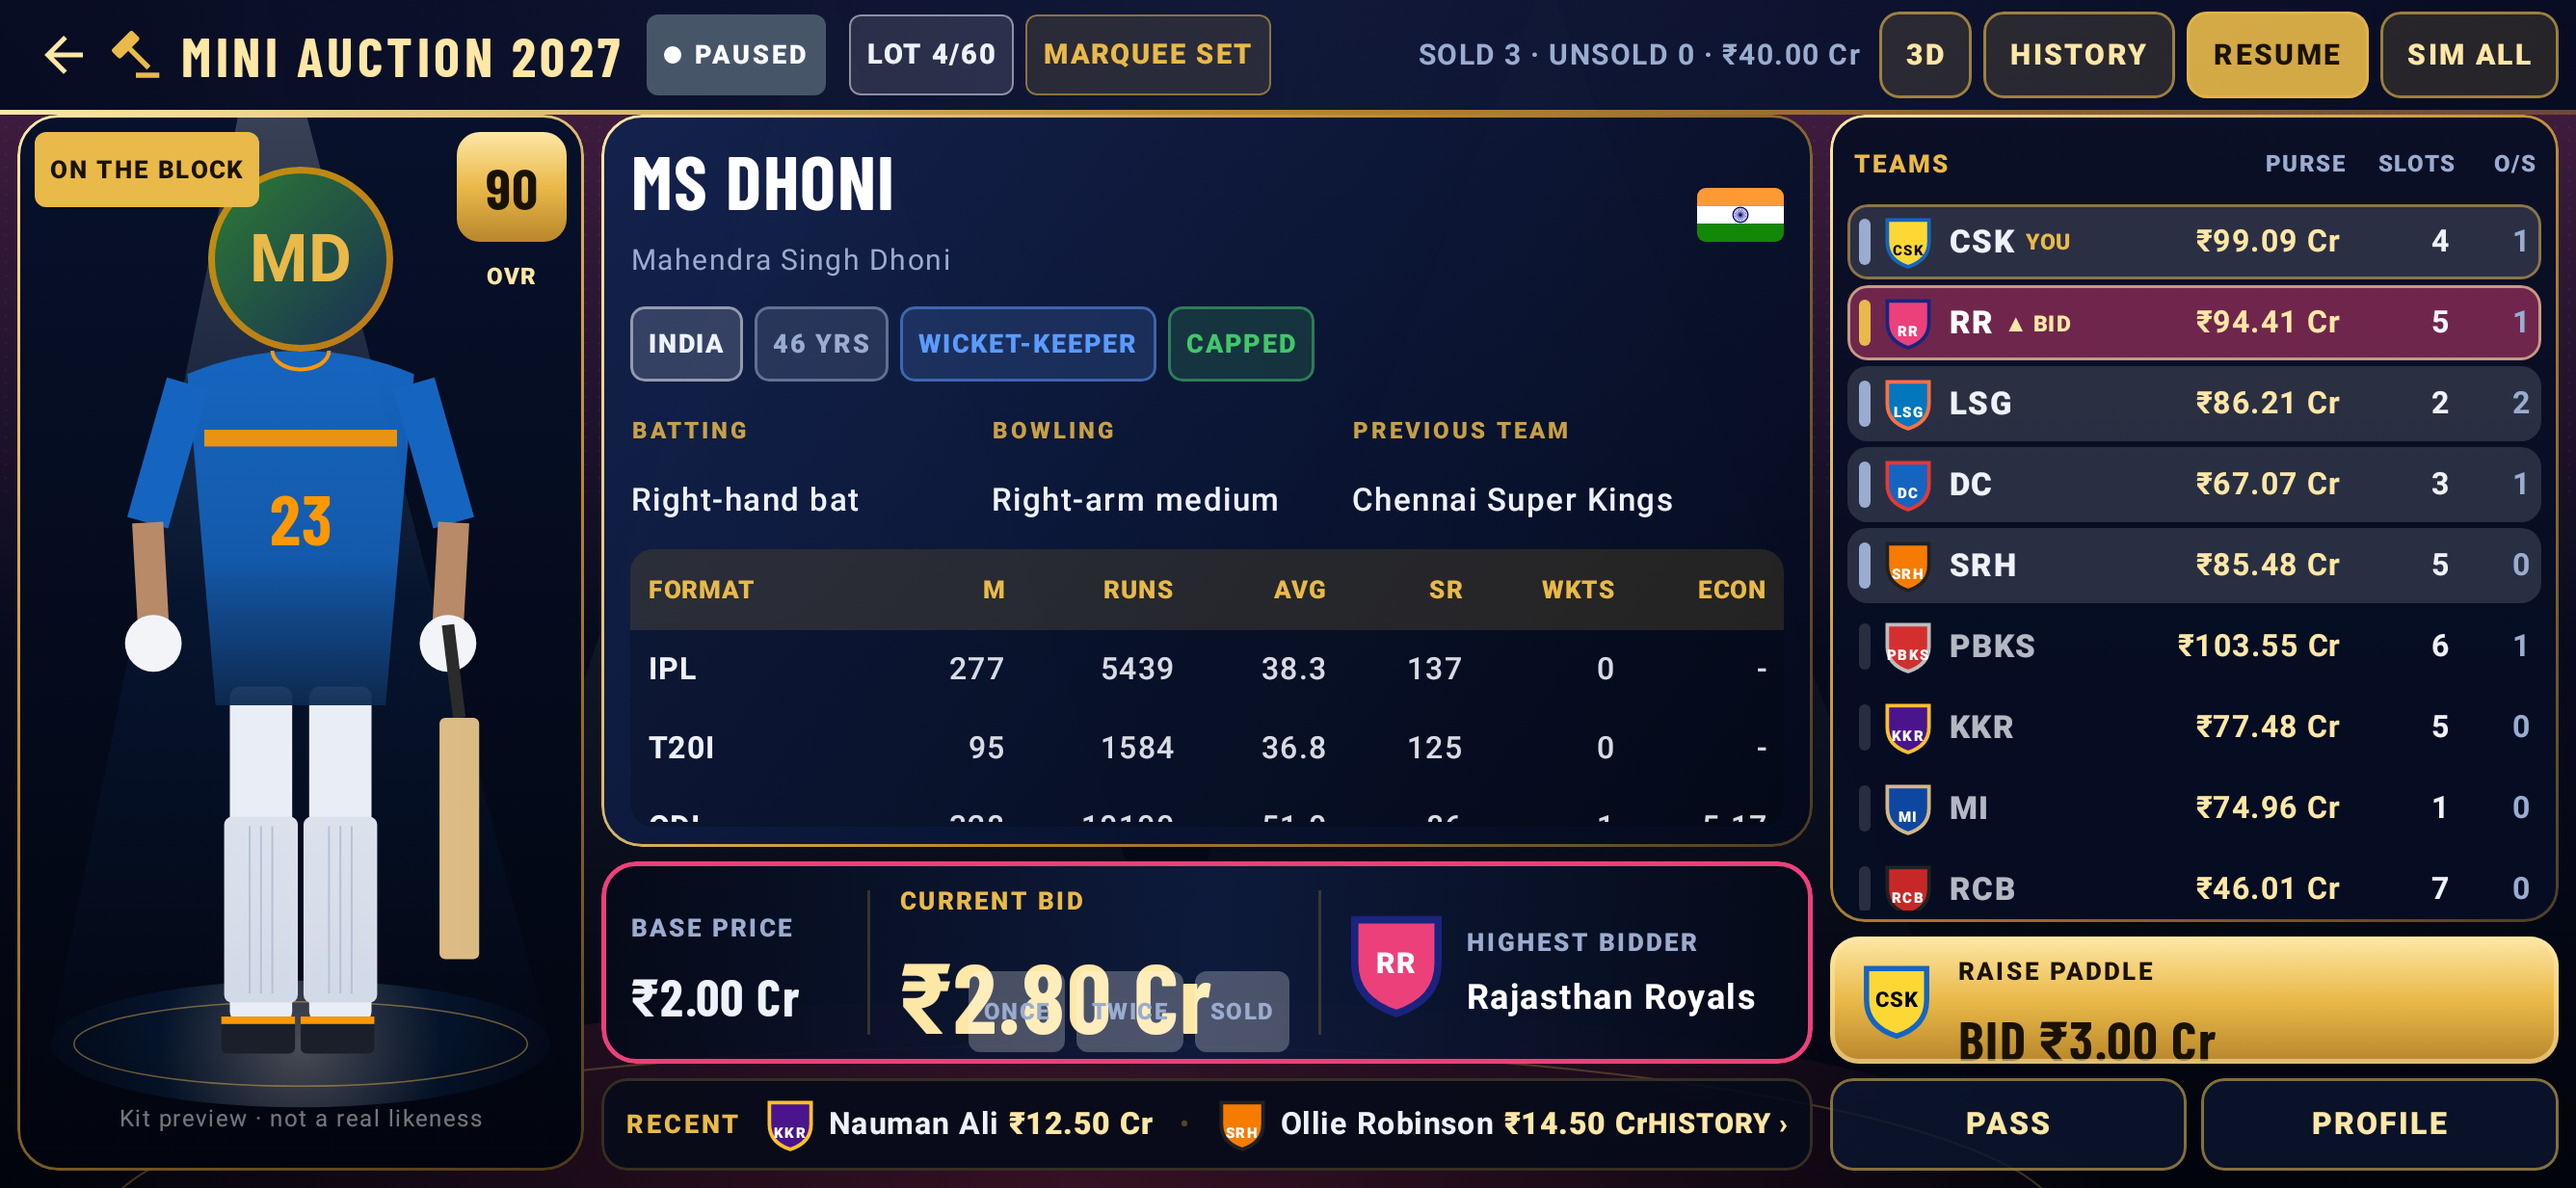
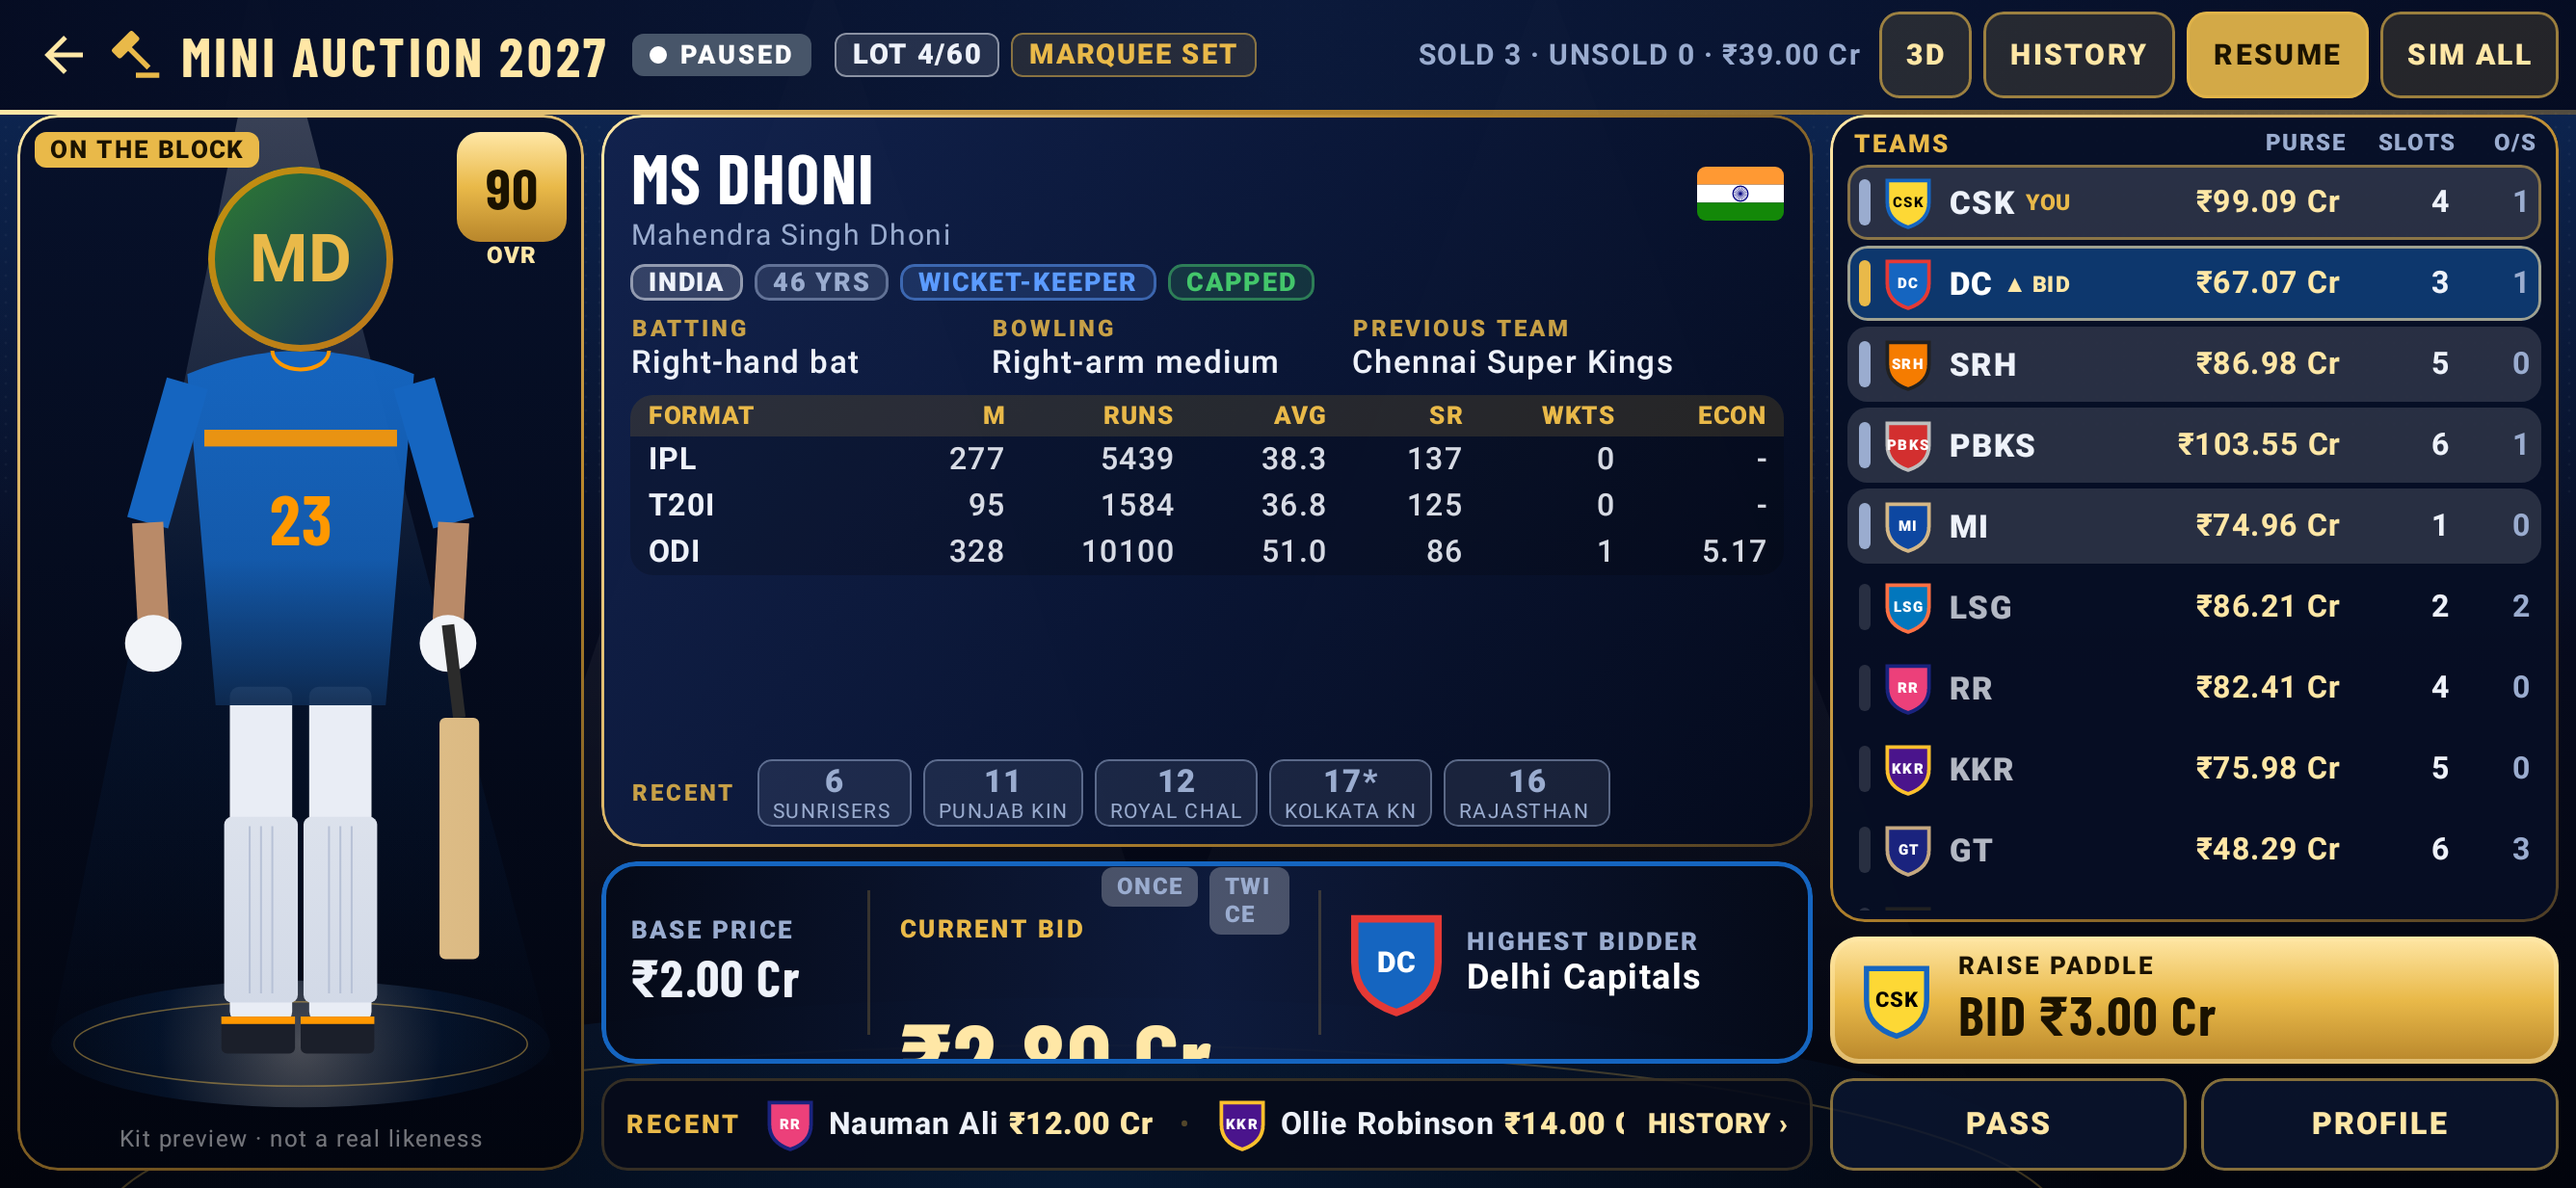
Auction price rail: going pips under the highest bidder, 4 stat rows

diff --git a/app/src/main/java/com/cricketcoach/manager/ui/screens/AuctionBroadcast.kt b/app/src/main/java/com/cricketcoach/manager/ui/screens/AuctionBroadcast.kt
@@ -377,7 +377,7 @@ private fun CareerStatsTable(p: GPlayer, rp: RealPlayer?, modifier: Modifier) {
             head.forEachIndexed { i, h -> Text(h, color = C.Gold, fontSize = 8.5.sp, fontWeight = FontWeight.Black, letterSpacing = 0.6.sp, modifier = Modifier.weight(weights[i]), textAlign = if (i == 0) TextAlign.Start else TextAlign.End) }
         }
         if (rows.isEmpty()) Text("No senior career record — scouted on skills", color = C.Sub, fontSize = 10.sp, modifier = Modifier.padding(6.dp))
-        rows.take(3).forEach { r ->
+        rows.take(4).forEach { r ->
             Row(Modifier.fillMaxWidth().padding(horizontal = 6.dp, vertical = 1.5.dp)) {
                 r.forEachIndexed { i, v -> Text(v, color = if (i == 0) C.Text else C.Text.copy(alpha = 0.9f), fontSize = 10.5.sp, fontWeight = if (i == 0) FontWeight.Bold else FontWeight.Medium,
                     modifier = Modifier.weight(weights[i]), textAlign = if (i == 0) TextAlign.Start else TextAlign.End, maxLines = 1) }
@@ -441,11 +441,7 @@ private fun PriceRail(s: CareerSave, a: AuctionState, p: GPlayer?, leader: Club?
         // current bid
         Box(Modifier.weight(1f).fillMaxHeight().padding(horizontal = 10.dp), contentAlignment = Alignment.CenterStart) {
             Column {
-                Row(verticalAlignment = Alignment.CenterVertically) {
-                    Text(if (a.curBidder.isEmpty()) "OPENING BID" else "CURRENT BID", color = C.Gold, fontSize = 8.5.sp, fontWeight = FontWeight.Black, letterSpacing = 1.sp)
-                    Spacer(Modifier.width(6.dp))
-                    Box(Modifier.offset(y = (-2).dp)) { GoingPips(a.countdown) }
-                }
+                Text(if (a.curBidder.isEmpty()) "OPENING BID" else "CURRENT BID", color = C.Gold, fontSize = 8.5.sp, fontWeight = FontWeight.Black, letterSpacing = 1.sp)
                 Text(Money.fmt(amount.toDouble()), color = C.GoldLight, fontFamily = Display, fontWeight = FontWeight.Bold, fontSize = if (narrow) 28.sp else 34.sp, lineHeight = 34.sp, maxLines = 1, softWrap = false, modifier = Modifier.scale(pop.value))
             }
             if (rise.value < 1f && lastInc.isNotEmpty())
@@ -458,8 +454,8 @@ private fun PriceRail(s: CareerSave, a: AuctionState, p: GPlayer?, leader: Club?
             Spacer(Modifier.width(6.dp))
             Column {
                 Text(if (mine) "YOU LEAD" else "HIGHEST BIDDER", color = if (mine) C.Positive else C.Sub, fontSize = 8.5.sp, fontWeight = FontWeight.Black, letterSpacing = 1.sp)
-                Text(leader?.name ?: "Awaiting paddles", color = Color.White, fontSize = 12.sp, fontWeight = FontWeight.Bold, maxLines = 2, overflow = TextOverflow.Ellipsis, lineHeight = 13.sp)
-                if (a.countdown > 0) Text(if (a.countdown == 1) "GOING ONCE…" else "GOING TWICE…", color = C.Red, fontSize = 9.sp, fontWeight = FontWeight.Black)
+                Text(leader?.name ?: "Awaiting paddles", color = Color.White, fontSize = 12.sp, fontWeight = FontWeight.Bold, maxLines = 1, overflow = TextOverflow.Ellipsis, lineHeight = 13.sp)
+                GoingPips(a.countdown)
             }
         }
     }
